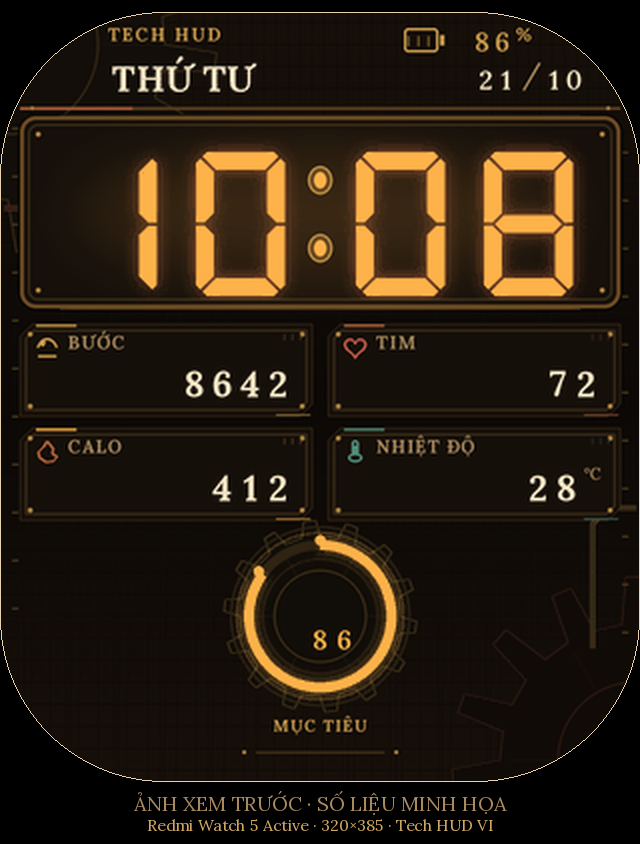
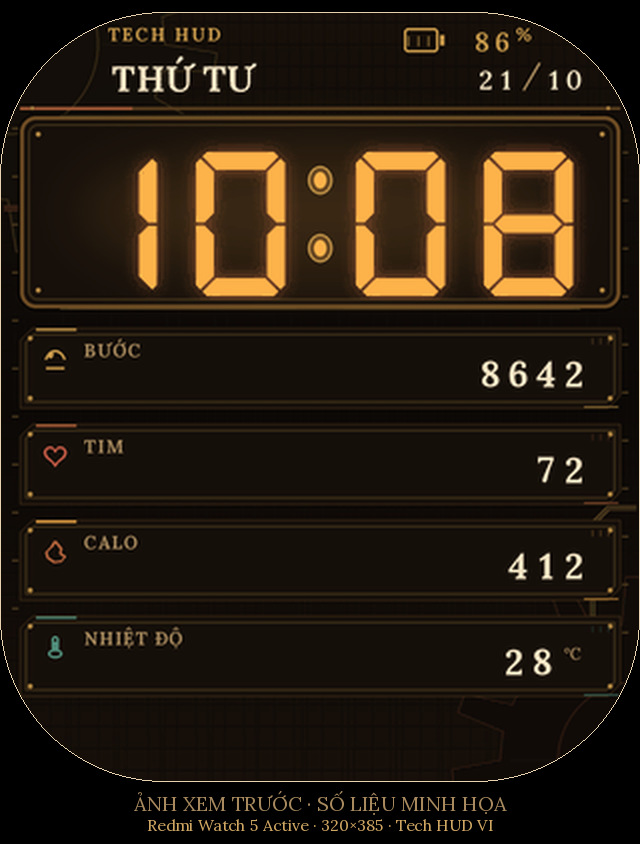
feat: bỏ cụm mục tiêu và sắp xếp lại bốn panel
- Bỏ vòng MỤC TIÊU, giá trị phần trăm, nhãn và source 1021
- Bỏ bitmap ring_* / digit_pct_* và bánh răng/thanh đế của cụm mục tiêu
- Xếp BƯỚC, TIM, CALO, NHIỆT ĐỘ thành bốn dải brass full-width
- Giữ khung đồng hồ DSEG7, vùng an toàn bo góc 82 px và phong cách steampunk
- Cập nhật validator, test, README và changelog v1.1.1
- Chưa kiểm thử thiết bị thật: release ở kênh pre-release

diff --git a/scripts/generate_assets.py b/scripts/generate_assets.py
@@ -304,19 +304,6 @@ def build_background() -> Image.Image:
     draw.line([(sc(34), sc(148)), (sc(148), sc(148))], fill=brass + (120,), width=sc(1))
     draw.line([(sc(172), sc(148)), (sc(286), sc(148))], fill=brass + (120,), width=sc(1))
 
-    # gear surround for the centred goal ring
-    draw_gear(draw, 160, 302, 48, 40, 14, brass, fill_alpha=8, outline_alpha=65)
-    draw.ellipse(
-        [sc(160 - 45), sc(302 - 45), sc(160 + 45), sc(302 + 45)],
-        outline=brass + (45,),
-        width=sc(1),
-    )
-
-    # base rail beneath the goal label
-    draw.line([(sc(128), sc(370)), (sc(192), sc(370))], fill=hex_rgb(COLORS["brass_dark"]) + (160,), width=sc(1))
-    draw_rivet(draw, 122, 370, 1.1)
-    draw_rivet(draw, 198, 370, 1.1)
-
     # panels
     for panel in LAYOUT["panels"]:
         draw_panel(draw, panel)
@@ -412,7 +399,6 @@ def build_digits() -> dict[str, list[Path]]:
         "digit_metric": ((14, 24), "display", 24, 700, rgba(LAYOUT, "cream"), None, 1.0),
         "digit_small": ((10, 20), "label", 17, 600, rgba(LAYOUT, "cream"), None, 0.5),
         "digit_batt": ((10, 18), "label", 14, 600, rgba(LAYOUT, "brass"), None, 0.5),
-        "digit_pct": ((12, 18), "label", 14, 600, rgba(LAYOUT, "amber"), None, 0.5),
     }
     for prefix, (size, family, font_size, weight, fill, glow, padding) in specs.items():
         shared_size = common_font_size(size, family, font_size, weight, padding)
@@ -470,36 +456,6 @@ def build_weekdays() -> list[Path]:
         draw_text(draw, (2, 6), name, font, rgba(LAYOUT, "text"), 0.2, "la")
         path = SRC_IMAGES / f"weekday_{index}.png"
         save_png(downsample(layer, (110, 26)), path)
-        paths.append(path)
-    return paths
-
-
-def build_rings() -> list[Path]:
-    paths = []
-    size = (88, 88)
-    for pct in range(0, 101, 5):
-        layer, draw = new_layer(*size)
-        box = [sc(6), sc(6), sc(82), sc(82)]
-        track = mix(hex_rgb(COLORS["brass"]), hex_rgb(COLORS["bg"]), 0.82)
-        draw.arc(box, 0, 359, fill=track + (255,), width=sc(5))
-        inner = mix(hex_rgb(COLORS["brass"]), hex_rgb(COLORS["bg"]), 0.72)
-        draw.arc([sc(15), sc(15), sc(73), sc(73)], 0, 359, fill=inner + (110,), width=sc(1))
-        draw.arc([sc(2), sc(2), sc(86), sc(86)], 0, 359, fill=hex_rgb(COLORS["brass"]) + (75,), width=sc(1))
-        if pct > 0:
-            amber = hex_rgb(COLORS["amber"])
-            end = -90 + 360 * pct / 100
-            draw.arc(box, -90, end if pct < 100 else 269.9, fill=amber + (255,), width=sc(5))
-            # rounded caps
-            for angle in (-90, end if pct < 100 else 269.9):
-                t = math.radians(angle)
-                px, py = 44 + math.cos(t) * 38, 44 + math.sin(t) * 38
-                draw.ellipse([sc(px - 2.6), sc(py - 2.6), sc(px + 2.6), sc(py + 2.6)], fill=amber + (255,))
-            mask = Image.new("L", layer.size, 0)
-            mdraw = ImageDraw.Draw(mask)
-            mdraw.arc(box, -90, end if pct < 100 else 269.9, fill=255, width=sc(5))
-            add_glow(layer, mask, hex_rgb(COLORS["amber"]) + (255,), 2.8, strength=150)
-        path = SRC_IMAGES / f"ring_{pct:02d}.png"
-        save_png(downsample(layer, size), path)
         paths.append(path)
     return paths
 
@@ -640,7 +596,6 @@ def main() -> int:
 
     build_digits()
     build_weekdays()
-    build_rings()
 
     assets: dict[str, Image.Image] = {}
     for path in sorted(SRC_IMAGES.glob("*.png")):

diff --git a/scripts/validate_assets.py b/scripts/validate_assets.py
@@ -119,11 +119,6 @@ def main() -> int:
             ):
                 errors.append(f"labels overlap: {first[0]} and {second[0]}")
 
-    ring = next(widget for widget in layout["widgets"] if widget["id"] == "goal_ring")
-    goal = next(label for label in layout["labels"] if label["id"] == "goal_label")
-    check(goal["y"] >= ring["y"] + ring["h"] + 4, "goal_label is too close to the goal ring")
-    check(goal["y"] + goal["size"] <= H - 16, "goal_label is too close to the bottom edge")
-
     # ---- rounded display safety ------------------------------------------------------
     radius = meta["corner_radius"]
     for panel in layout["panels"]:
@@ -168,15 +163,12 @@ def main() -> int:
         "digit_metric": (14, 24),
         "digit_small": (10, 24),
         "digit_batt": (10, 24),
-        "digit_pct": (12, 20),
     }.items():
         for digit in range(10):
             expected[f"{prefix}_{digit}"] = size
         expected[f"{prefix}_minus"] = size
     for index in range(7):
         expected[f"weekday_{index}"] = (110, 26)
-    for pct in range(0, 101, 5):
-        expected[f"ring_{pct:02d}"] = (88, 88)
 
     on_disk = {path.stem for path in SRC_IMAGES.glob("*.png")}
     check(on_disk == set(expected), f"image set mismatch: missing={sorted(set(expected) - on_disk)} extra={sorted(on_disk - set(expected))}")
@@ -187,14 +179,9 @@ def main() -> int:
             continue
         image = verify_png(path)
         check(image.size == size, f"{name}.png is {image.size}, expected {size}")
-        if name.startswith("digit_") or name.startswith("ring_") or name.startswith("weekday_"):
+        if name.startswith("digit_") or name.startswith("weekday_"):
             check(image.getchannel("A").getextrema()[0] == 0, f"{name}.png background is not transparent")
             check(image.getchannel("A").getextrema()[1] > 40, f"{name}.png has no visible ink")
-        if name.startswith("ring_"):
-            expected_pct = int(name.split("_")[1])
-            if expected_pct == 0:
-                # only the track is allowed
-                pass
 
     # ---- .fprj -----------------------------------------------------------------------
     check(FPRJ_PATH.is_file(), "tech_hud_vi.fprj missing")

diff --git a/tests/test_layout.py b/tests/test_layout.py
@@ -46,7 +46,7 @@ def test_palette_is_locked():
 
 def test_vietnamese_labels_are_present():
     text = " ".join(label["text"] for label in LAYOUT["labels"])
-    for word in ("BƯỚC", "TIM", "CALO", "NHIỆT ĐỘ", "MỤC TIÊU"):
+    for word in ("BƯỚC", "TIM", "CALO", "NHIỆT ĐỘ"):
         assert word in text
     assert "TRẠNG THÁI" not in text
     assert "connection_labels" not in LAYOUT["meta"]
@@ -102,18 +102,13 @@ def test_metric_fields_have_room_for_large_values():
     assert widgets["battery"]["digits"] >= 3
 
 
-def test_goal_label_clears_the_ring():
-    ring = next(widget for widget in LAYOUT["widgets"] if widget["id"] == "goal_ring")
-    label = next(label for label in LAYOUT["labels"] if label["id"] == "goal_label")
-    assert label["y"] >= ring["y"] + ring["h"] + 4
-
-
-def test_goal_section_is_centered():
-    ring = next(widget for widget in LAYOUT["widgets"] if widget["id"] == "goal_ring")
-    label = next(label for label in LAYOUT["labels"] if label["id"] == "goal_label")
-    canvas_w = LAYOUT["meta"]["canvas"]["w"]
-    assert ring["x"] == (canvas_w - ring["w"]) // 2
-    assert label["x"] == canvas_w // 2
+def test_goal_section_is_removed():
+    widget_ids = {widget["id"] for widget in LAYOUT["widgets"]}
+    label_ids = {label["id"] for label in LAYOUT["labels"]}
+    assert "goal_ring" not in widget_ids
+    assert "goal_value" not in widget_ids
+    assert "goal_label" not in label_ids
+    assert "1021" not in {widget["source"] for widget in LAYOUT["widgets"]}
 
 
 def test_content_fits_rounded_display():
@@ -156,6 +151,6 @@ def test_preview_is_marked_as_illustrative():
     assert "MINH HỌA" in LAYOUT["meta"]["preview_note"]
 
 
-@pytest.mark.parametrize("widget_id", ["steps", "heart", "calories", "temp", "goal_ring", "goal_value", "weekday", "battery"])
+@pytest.mark.parametrize("widget_id", ["steps", "heart", "calories", "temp", "weekday", "battery"])
 def test_core_widgets_exist(widget_id):
     assert any(widget["id"] == widget_id for widget in LAYOUT["widgets"])

diff --git a/scripts/package_release.py b/scripts/package_release.py
@@ -106,11 +106,11 @@ def write_notes(target: Path, version: str, prerelease: bool, record: dict, chec
 - Đồng hồ `HH:MM` dùng **DSEG7 Classic Bold** bảy đoạn màu amber trong khung đồng có đinh tán.
 - Nhãn và số liệu dùng **Lora** serif (OFL); Lora có đủ glyph tiếng Việt, DSEG7 chỉ dùng cho chữ số giờ:phút.
 - Các số bảy đoạn `1`/`4` được căn đáy chung với `0`/`8`, không bị lệch dòng.
-- Nền da/gunmetal, bánh răng đồng, ống dẫn, panel viền brass và vòng MỤC TIÊU kiểu mặt số.
+- Nền da/gunmetal, bánh răng đồng, ống dẫn và bốn dải panel viền brass.
 - Bố cục tối giản: bỏ footer tên thiết bị, mã phiên bản, nhãn PIN, đơn vị BPM/KCAL, panel trạng thái và chấm trạng thái trùng.
 - Tên thứ đầy đủ (CHỦ NHẬT … THỨ BẢY), ngày dạng `21/10`.
-- Bốn panel dữ liệu: BƯỚC, TIM, CALO, NHIỆT ĐỘ; vùng số rộng hơn để không tràn.
-- Vòng MỤC TIÊU 21 mức (5% mỗi mức) lấy từ phần trăm mục tiêu bước chân, căn giữa; nhãn không bị vạch trang trí đè.
+- Bốn dải dữ liệu full-width: BƯỚC, TIM, CALO, NHIỆT ĐỘ; vùng số rộng hơn để không tràn.
+- Bỏ hoàn toàn vòng MỤC TIÊU, giá trị phần trăm và source `1021`; không còn cụm bánh răng/thanh đế phía dưới.
 - Toàn bộ nội dung nằm trong vùng an toàn của màn hình bo góc bán kính 82 px; không đặt chữ/số sát bốn góc.
 - Build tự động, kiểm tra cấu trúc nhị phân, checksum SHA-256 và GitHub Actions.
 

diff --git a/scripts/common.py b/scripts/common.py
@@ -202,6 +202,6 @@ def parse_number(value: int, digits: int, blanking: bool = True) -> list[str | N
     first = next((index for index, ch in enumerate(raw) if ch != "0"), None)
     if first is None:
         # A real zero reading must still render one digit; hiding the whole
-        # field made 0 steps / 0% goal look like missing data.
+        # field made a valid 0 steps/calories reading look like missing data.
         return [None] * (digits - 1) + ["0"]
     return [None] * first + list(raw[first:])

diff --git a/tests/test_assets.py b/tests/test_assets.py
@@ -13,7 +13,7 @@ LAYOUT = load_layout()
 
 
 def test_text_digit_sets_share_one_height():
-    for prefix in ("digit_metric", "digit_small", "digit_batt", "digit_pct"):
+    for prefix in ("digit_metric", "digit_small", "digit_batt"):
         heights = []
         for digit in range(10):
             image = Image.open(ROOT / "src" / "watchface" / "images" / f"{prefix}_{digit}.png").convert("RGBA")

diff --git a/README.md b/README.md
@@ -13,7 +13,7 @@ Mặt đồng hồ tuỳ chỉnh phong cách **steampunk / brass**, giao diện 
 Dự án tạo ra một mặt đồng hồ số thực thụ bằng compiler Gen2, không phải mockup:
 
 - Đồng hồ số `HH:MM` dùng **DSEG7 Classic Bold** bảy đoạn, màu amber, đặt trong khung đồng (brass) có đinh tán.
-- Bố cục steampunk: nền da/gunmetal, bánh răng đồng, ống dẫn, panel viền brass và vòng mục tiêu kiểu mặt số.
+- Bố cục steampunk: nền da/gunmetal, bánh răng đồng, ống dẫn và bốn dải panel viền brass.
 - Nhãn và số liệu dùng **Lora** (serif, OFL) có đủ dấu tiếng Việt; số giờ:phút dùng DSEG7.
 - Bố cục tối giản: chỉ giữ dữ liệu cần thiết, không footer tên máy, không mã phiên bản, không nhãn đơn vị lặp, không panel trạng thái.
 - Nội dung được căn vào vùng an toàn của màn hình bo góc bán kính **82 px**; không đặt chữ/số sát bốn góc.
@@ -57,7 +57,7 @@ Dự án tạo ra một mặt đồng hồ số thực thụ bằng compiler Gen
 
 ### Vì sao không có ô KM?
 
-Danh sách data source cho `redmi_watch_5_active` trong Mi Create **không có** nguồn quãng đường. Định dạng này cũng không cho phép tính toán trên thiết bị. Dự án **không** hiển thị KM giả và không suy ra quãng đường từ số bước. Vì vậy bố cục dùng 4 panel: **BƯỚC, TIM, CALO, NHIỆT ĐỘ**; mục tiêu bước chân nằm ở vòng tiến độ.
+Danh sách data source cho `redmi_watch_5_active` trong Mi Create **không có** nguồn quãng đường. Định dạng này cũng không cho phép tính toán trên thiết bị. Dự án **không** hiển thị KM giả và không suy ra quãng đường từ số bước. Bố cục dùng bốn dải panel: **BƯỚC, TIM, CALO, NHIỆT ĐỘ**.
 
 ### Nguồn dữ liệu thực tế
 
@@ -71,7 +71,6 @@ Danh sách data source cho `redmi_watch_5_active` trong Mi Create **không có**
 | Nhịp tim | `0822` | |
 | Calo | `0823` | |
 | Nhiệt độ | `2031` | do ứng dụng điện thoại cung cấp |
-| Mục tiêu | `1021` | % mục tiêu bước chân |
 
 Không có dữ liệu nào được sinh ngẫu nhiên hay gán cứng trong mặt đồng hồ.
 
@@ -124,7 +123,7 @@ python3 -m pytest -q
 ### Chỉ tạo preview và source package (không cần compiler)
 
 ```bash
-python3 scripts/package_release.py --version v1.1.0
+python3 scripts/package_release.py --version v1.1.1
 ```
 
 Kết quả nằm trong `dist/`. Khi không có compiler, **không** có `tech-hud-vi.bin`; script ghi rõ điều đó trong `BUILD-INFO.txt`.
@@ -194,8 +193,8 @@ Artifact của pull request **không** kèm binary.
 
 ```bash
 # Tag phát hành (pre-release tự động vì chưa test thiết bị)
-git tag v1.1.0
-git push origin v1.1.0
+git tag v1.1.1
+git push origin v1.1.1
 ```
 
 Hoặc **Actions → build-watchface → Run workflow**, nhập tag đã tồn tại và chọn `release=true`.

diff --git a/docs/format-research.md b/docs/format-research.md
@@ -62,7 +62,7 @@ Các ràng buộc này được cài đặt trong `scripts/common.py` (`fit_comp
 - Be Vietnam Pro và Orbitron không còn được dùng để render kể từ v1.1.0.
 - Preview và fprj dùng cùng một bộ bitmap, nên không có sai lệch giữa ảnh xem trước và mặt đồng hồ.
 - Màn hình có bán kính bo góc **82 px**. `validate_assets.py` kiểm tra bốn góc của mọi panel, icon, widget và nhãn nằm trong hình chữ nhật bo góc; preview cũng được mask theo đúng bán kính này.
-- Panel/nhãn trạng thái và bitmap kết nối đã được bỏ từ v1.0.3; vòng MỤC TIÊU được căn giữa vùng đáy.
+- Panel/nhãn trạng thái và bitmap kết nối đã được bỏ từ v1.0.3; vòng MỤC TIÊU, giá trị phần trăm và source `1021` đã được bỏ từ v1.1.1. Bốn panel dữ liệu được xếp thành bốn dải brass full-width.
 - Từ v1.0.4, `draw_text()` vẽ từng ký tự bằng anchor `ls` trên một baseline chung (lấy từ cap height của `H`). Trước đó anchor `lt` căn theo đỉnh từng glyph nên chữ có dấu tiếng Việt bị tụt xuống so với chữ không dấu.
 
 ## 5. Dữ liệu
@@ -73,11 +73,11 @@ Source list cho `redmi_watch_5_active` trong `Mi-Create/src/data/sources.json` c
 - `1011/1111/1211` phút
 - `1812` ngày, `1012` tháng, `2012` thứ
 - `0841` pin
-- `0821` bước, `1021` % mục tiêu bước
+- `0821` bước
 - `0822` nhịp tim, `0823` calo
 - `2031` nhiệt độ
 
-**Không có** source quãng đường. Vì vậy dự án không hiển thị KM.
+`1021` (% mục tiêu bước) và `1023` (% mục tiêu calo) vẫn có trong allowlist nghiên cứu nhưng không còn widget nào sử dụng. **Không có** source quãng đường, vì vậy dự án không hiển thị KM.
 
 ## 6. Cài đặt
 

diff --git a/CHANGELOG.md b/CHANGELOG.md
@@ -2,6 +2,19 @@
 
 Mọi thay đổi đáng chú ý được ghi ở đây. Định dạng theo [Semantic Versioning](https://semver.org/lang/vi/).
 
+## [v1.1.1] — 2026-10-22
+
+### Thay đổi
+
+- Bỏ hoàn toàn vòng **MỤC TIÊU**, giá trị phần trăm và nhãn dưới vòng; không còn dùng source `1021`.
+- Sắp xếp lại bốn panel **BƯỚC, TIM, CALO, NHIỆT ĐỘ** thành bốn dải brass full-width, dùng khoảng trống phía dưới.
+- Bỏ bánh răng nền và thanh đế của cụm mục tiêu; giữ bánh răng trang trí, ống đồng và vùng an toàn bo góc 82 px.
+- Cập nhật validator, test và tài liệu theo bố cục mới.
+
+### Giới hạn
+
+- Vẫn là **pre-release** vì chưa kiểm thử trên Redmi Watch 5 Active thật.
+
 ## [v1.1.0] — 2026-10-22
 
 ### Thay đổi

diff --git a/docs/device-test.md b/docs/device-test.md
@@ -15,8 +15,7 @@ Repo chỉ cho phép phát hành **stable** khi `tests/device_verification.json`
    - Pin phần trăm khớp với cài đặt hệ thống.
    - Bước, nhịp tim, calo cập nhật khi vận động.
    - Nhiệt độ hiển thị sau khi đồng bộ thời tiết.
-   - Vòng mục tiêu thay đổi khi số bước thay đổi.
-   - Panel trạng thái chuyển giữa `SẴN SÀNG` và `NGOẠI TUYẾN` khi bật/tắt Bluetooth.
+   - Bốn dải `BƯỚC / TIM / CALO / NHIỆT ĐỘ` nằm gọn, không chồng lên nhau.
    - Không bị cắt chữ, không tràn panel, không nhấp nháy.
 5. Theo dõi pin ít nhất 24 giờ.
 6. Ghi kết quả vào `tests/device_verification.json`:
